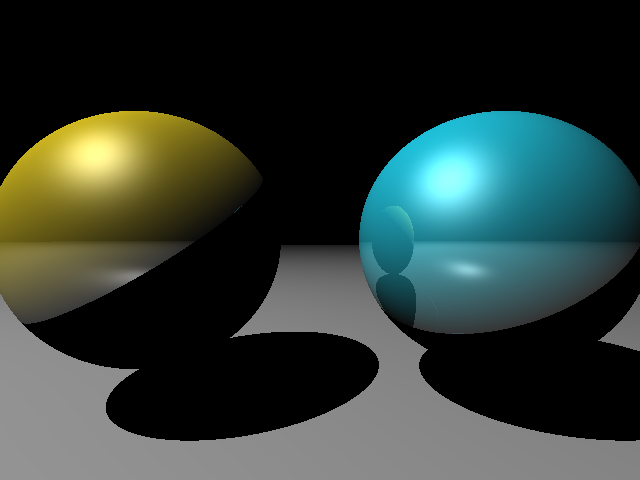
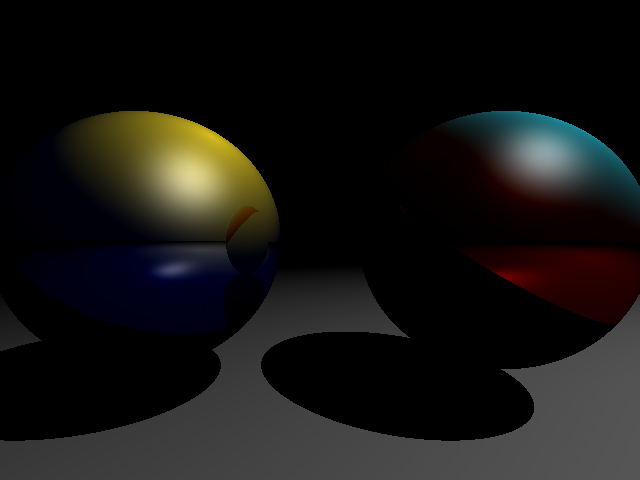
tried adding soft shading

diff --git a/raytracing.py b/raytracing.py
@@ -57,7 +57,7 @@ objects = [
     { 'center': np.array([0, -9000, 0]), 'radius': 8999, 'ambient': np.array([0.5, 0.5, 0.5]), 'diffuse': np.array([0.6, 0.6, 0.6]), 'specular': np.array([1, 1, 1]), 'shininess': 100, 'reflection': 1 }
 ]
 #Declaes the lights in the scene.
-light = { 'position': np.array([0,8,3]), 'ambient': np.array([0.1, 0.1, 0.1]), 'diffuse': np.array([1, 1, 1]), 'specular': np.array([1, 1, 1]) },
+light = { 'position': np.array([5,8,3]), 'ambient': np.array([0.1, 0.1, 0.1]), 'diffuse': np.array([1, 1, 1]), 'specular': np.array([1, 1, 1]) }
 
 #Main RayTracing loop.
 image = np.zeros((height,width,3))
@@ -84,7 +84,7 @@ for i,y in enumerate(np.linspace(screen[1], screen[3], height)):
                 break
             illumination = np.zeros((3))
             illumination += nearest_object['ambient'] * light['ambient']
-            illumination += nearest_object['diffuse'] * light['diffuse'] * np.dot(intersection_to_light, normal_to_surface)
+            illumination += nearest_object['diffuse'] * light['diffuse'] * (1 - 1.05*np.arccos(np.dot(intersection_to_light, normal_to_surface)))
             intersection_to_camera = normalise(camera - intersection)
             H = normalise(intersection_to_light + intersection_to_camera)
             illumination += nearest_object['specular'] * light['specular'] * np.dot(normal_to_surface, H) ** (nearest_object['shininess'] / 4)
